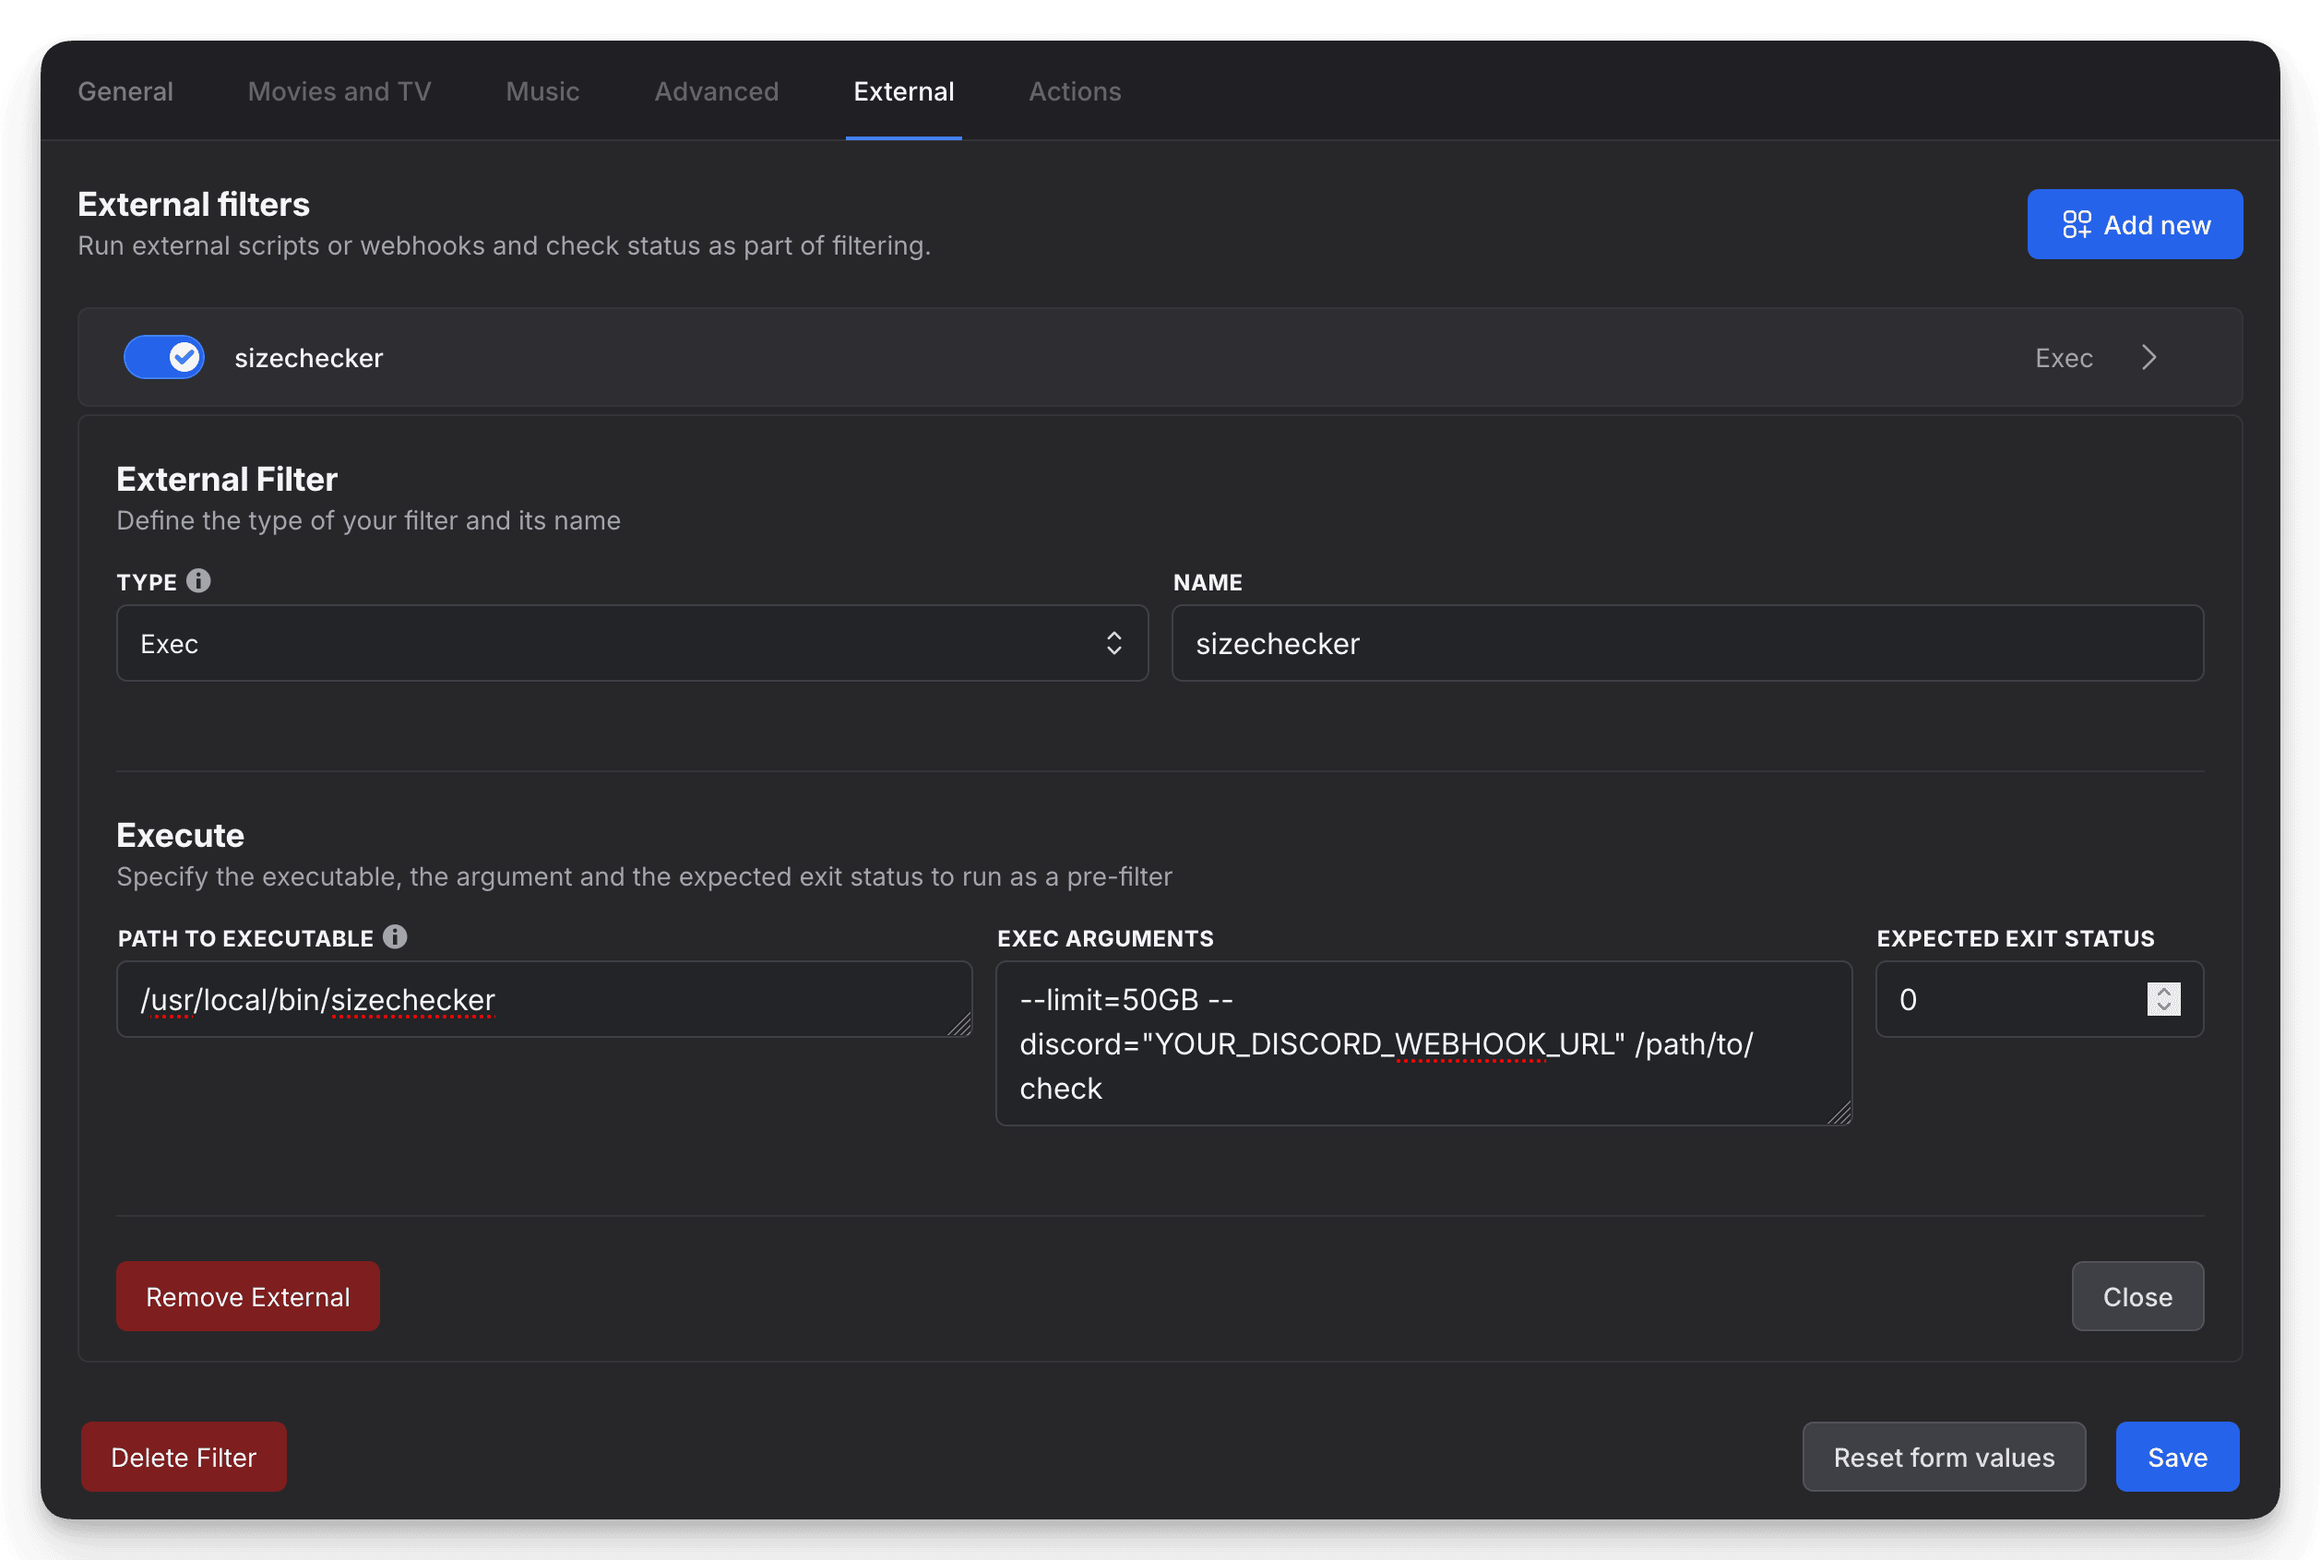
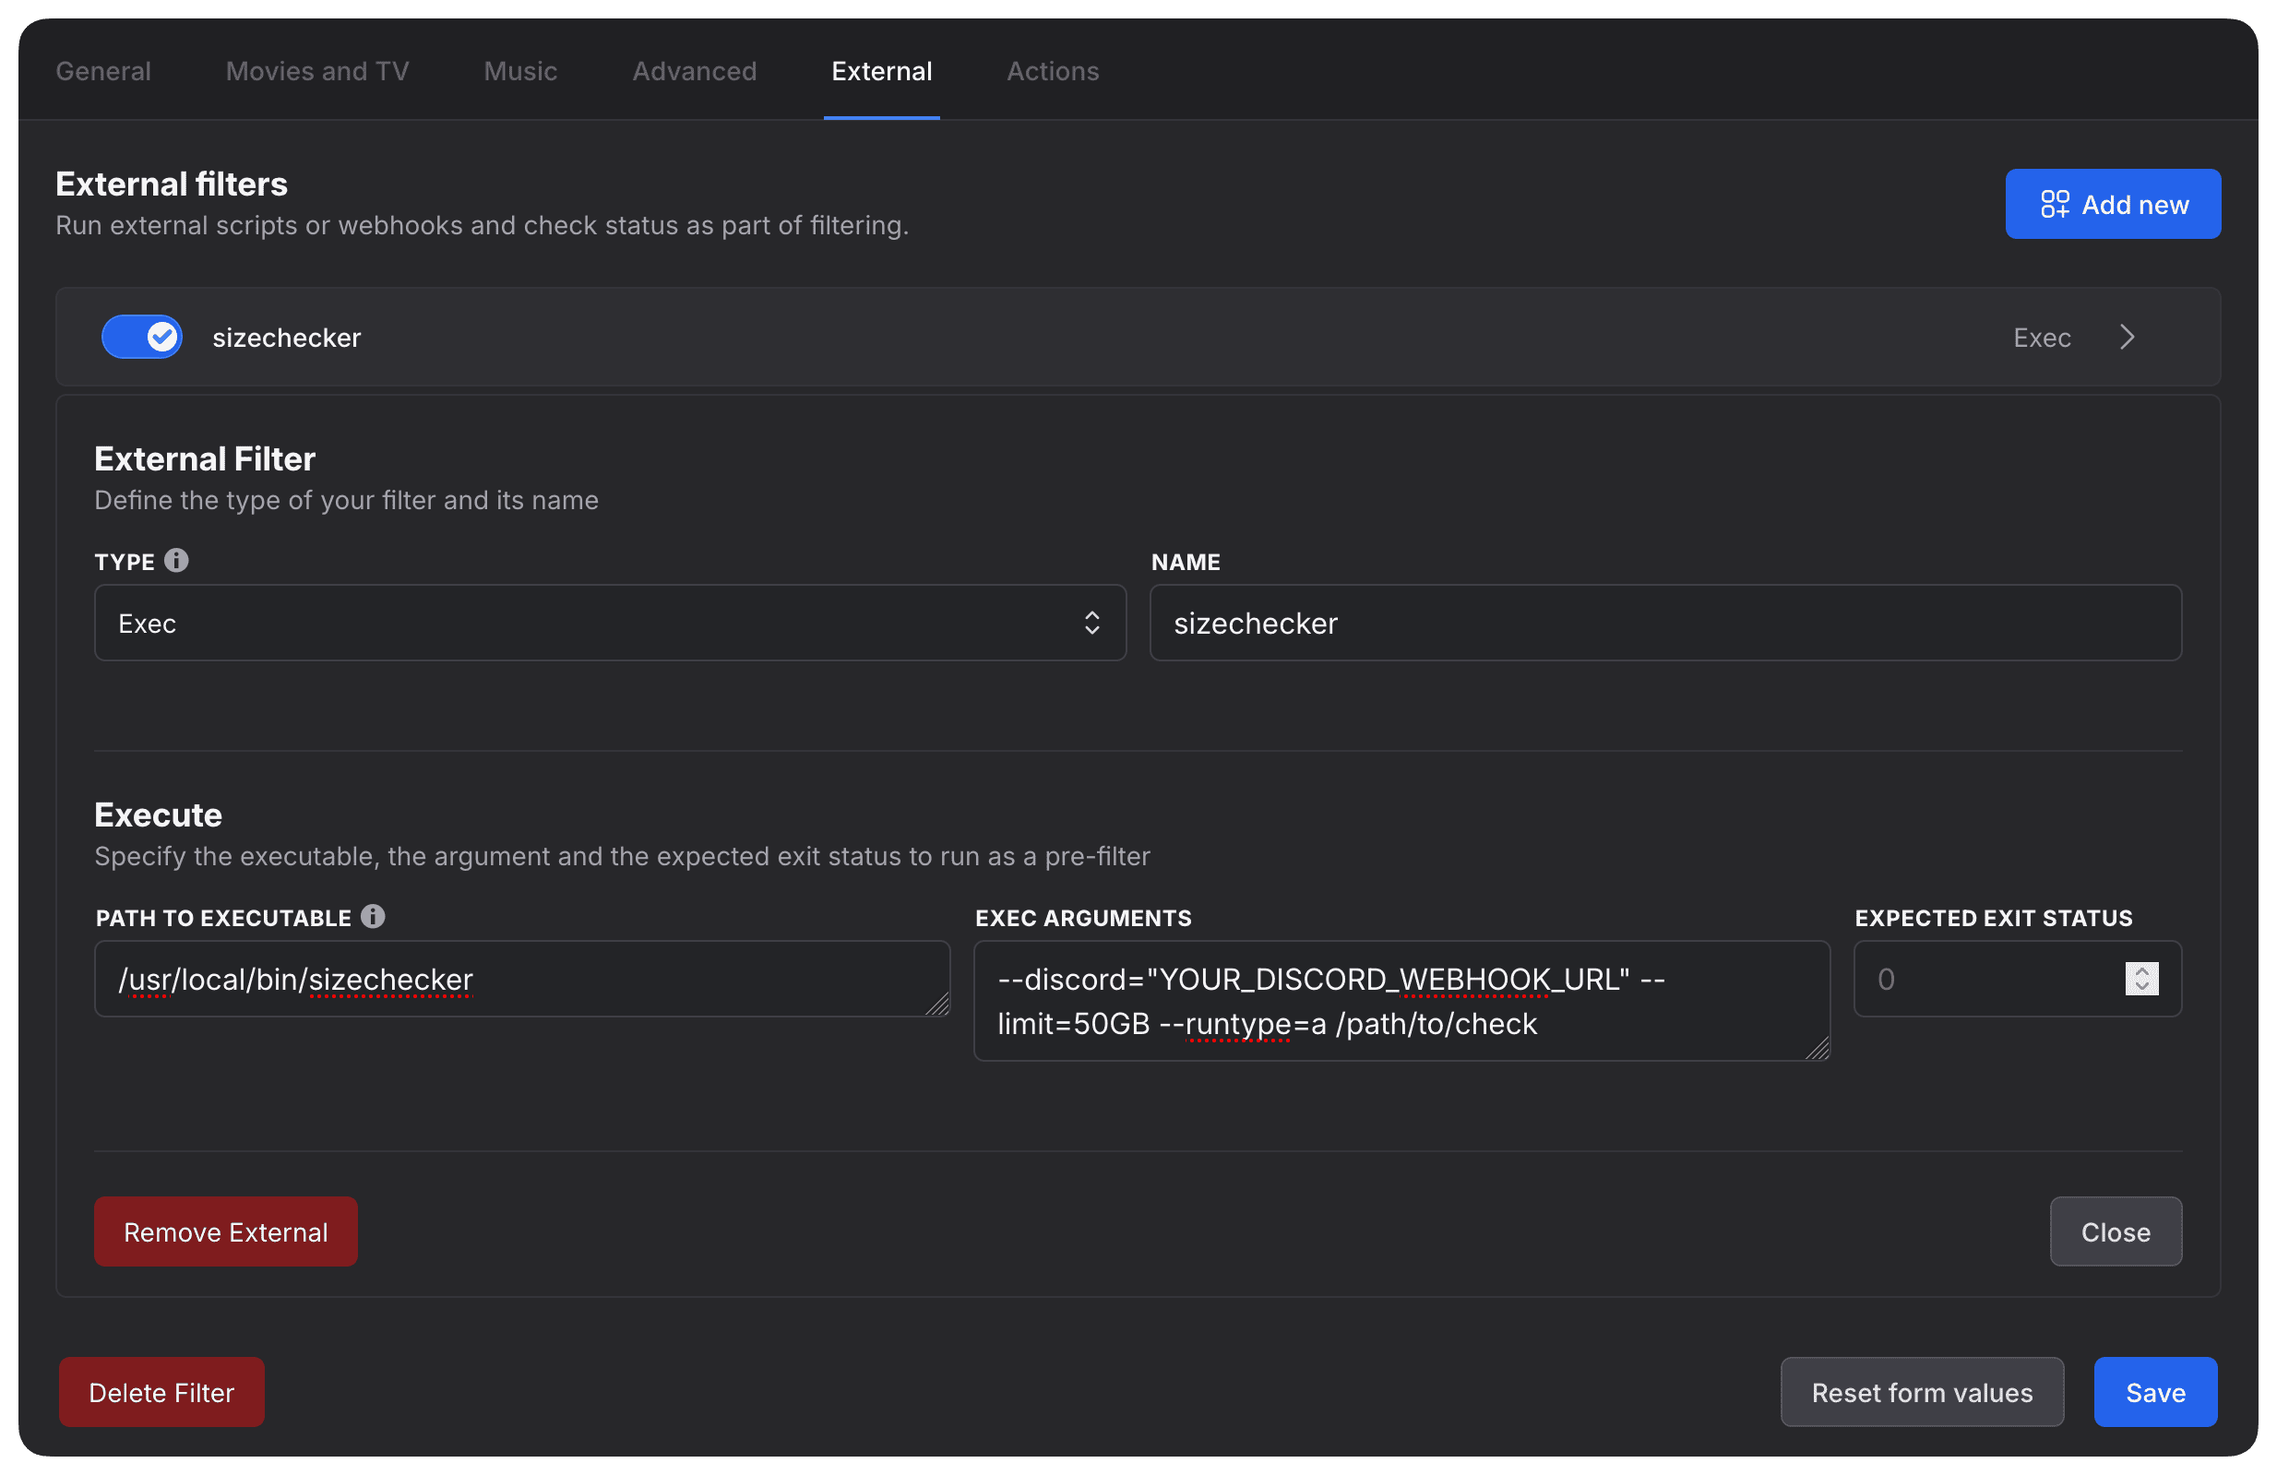
docs: update sizechecker (#214)
* docs: update sizechecker

* fix: update image example

diff --git a/docs/3rd-party-tools/sizechecker.md b/docs/3rd-party-tools/sizechecker.md
@@ -6,7 +6,7 @@ description: Simple tool to stop downloads if disk is full with notification sup
 keywords: [disk-monitoring,space,free-space,free,disk]
 ---
 
-**Sizechecker** is a companion tool for **autobrr** that helps prevent accepting new downloads when a certain disk space limit is met. In addition to disk space monitoring, it can send notifications to a Discord webhook if the available disk space falls below a specified threshold.
+**Sizechecker** is a companion tool for **autobrr** that helps prevent accepting new downloads when certain disk space conditions are met. It can check both used and available disk space and can send notifications to a Discord webhook if the specified threshold is crossed.
 
 ## Step 1: Grab the Binary
 
@@ -15,11 +15,13 @@ keywords: [disk-monitoring,space,free-space,free,disk]
 2. Run the following command to download the appropriate binary for your Linux system:
 
 For **Linux (AMD64)**:
+
 ```bash
 wget $(curl -s https://api.github.com/repos/s0up4200/sizechecker/releases/latest | grep download | grep linux_amd64 | cut -d\" -f4)
 ```
 
 For **Linux (ARM64)**:
+
 ```bash
 wget $(curl -s https://api.github.com/repos/s0up4200/sizechecker/releases/latest | grep download | grep linux_arm64 | cut -d\" -f4)
 ```
@@ -44,28 +46,44 @@ sudo mv sizechecker /usr/local/bin/
 
 ### Step 2: Usage Examples
 
-#### 1. Check Disk Space and Notify via Discord Webhook
+#### 1. Check Available Disk Space and Notify via Discord Webhook
 
 The basic usage of the tool is to check the available disk space on a specified directory and optionally send a Discord notification if the available space is below a certain threshold.
 
 **Example:**
 
 ```bash
-sizechecker --limit=50GB --discord="YOUR_DISCORD_WEBHOOK_URL" /path/to/check
+sizechecker --limit=50GB --runtype=a --discord="YOUR_DISCORD_WEBHOOK_URL" /path/to/check
 ```
 
-- `--limit=50GB`: This sets the minimum required free space in the specified directory.
+- `--limit=50GB`: This sets the **minimum required free space** in the specified directory.
+- `--runtype=a`: This tells the tool to check for **available** disk space.
 - `--discord`: This is the Discord webhook URL where the notification will be sent if the disk space is below the specified limit.
 - `/path/to/check`: This is the directory where you want to check available space. E.g., `~/` for your home directory.
 
-#### 2. Set a Cooldown to Avoid Frequent Notifications
+#### 2. Check Used Disk Space and Notify via Discord Webhook
+
+You can also use the tool to check the used disk space in a specified directory, and send a notification if the used space exceeds a certain limit.
+
+**Example:**
+
+```bash
+sizechecker --limit=500GB --runtype=u --discord="YOUR_DISCORD_WEBHOOK_URL" /path/to/check
+```
+
+- `--limit=500GB`: This sets the **maximum allowed used space** in the specified directory.
+- `--runtype=u`: This tells the tool to check for **used** disk space.
+- `--discord`: Discord webhook URL for notifications.
+- `/path/to/check`: The directory to check.
+
+#### 3. Set a Cooldown to Avoid Frequent Notifications
 
 You can specify a cooldown period between notifications to prevent the tool from sending too many messages to Discord in a short time. By default, the cooldown is set to 1 minute if not specified.
 
 **Example:**
 
 ```bash
-sizechecker --discord="YOUR_DISCORD_WEBHOOK_URL" --cooldown=5m --limit=50GB /path/to/check
+sizechecker --discord="YOUR_DISCORD_WEBHOOK_URL" --cooldown=5m --limit=50GB --runtype=a /path/to/check
 ```
 
 - `--cooldown=5m`: This sets a cooldown period of 5 minutes between notifications. If the disk space check fails within the cooldown period, no additional notification will be sent.
@@ -91,9 +109,19 @@ sizechecker --discord="YOUR_DISCORD_WEBHOOK_URL" --cooldown=5m --limit=50GB /pat
 6. **Exec Arguments**: Add the required arguments. For example, to check for at least 50GB free space in `/path/to/check`, add the following:
 
    ```bash
-   --discord="YOUR_DISCORD_WEBHOOK_URL" --limit=50GB /path/to/check
+   --discord="YOUR_DISCORD_WEBHOOK_URL" --limit=50GB --runtype=a /path/to/check
    ```
 
 7. **Expected Exit Status**: Set the expected exit status to `0`.
 
 ![autobrr-sizechecker-setup](../../static/img/sizechecker.png)
+
+**Additional Information:**
+
+- The `--runtype` flag accepts two values:
+  - `a`: Check for **available** free space. The tool will warn if the available space is **less than** the specified limit.
+  - `u`: Check for **used** disk space. The tool will warn if the used space is **greater than** the specified limit.
+
+- The `--limit` flag works differently based on the `--runtype`:
+  - For `runtype=a`, `--limit` specifies the **minimum required free space**.
+  - For `runtype=u`, `--limit` specifies the **maximum allowed used space**.
